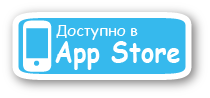
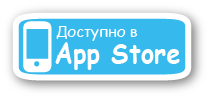
correct color for hover images and add hover style for appstore button

diff --git a/site/main/index.html b/site/main/index.html
@@ -70,7 +70,7 @@
                     <img src="./images/flower.png" />
                 </div>
                 <div class="download_button">
-                    <a href=""><img src="./images/appstore.png" /></a>
+                    <a class="appstore_button" href=""></a>
                 </div>
             </div>
             <div style="clear: both;" />

diff --git a/site/main/css/main.css b/site/main/css/main.css
@@ -149,6 +149,17 @@ em.book {
     margin-right: 60px;
 }
 
+.appstore_button {
+    background: url('../images/appstore.png');
+    display: block;
+    width: 210px;
+    height: 99px;
+}
+
+.appstore_button:hover {
+    background: url('../images/appstore_hover.png');
+}
+
 .copyright {
     float: left;
     text-align: center;
